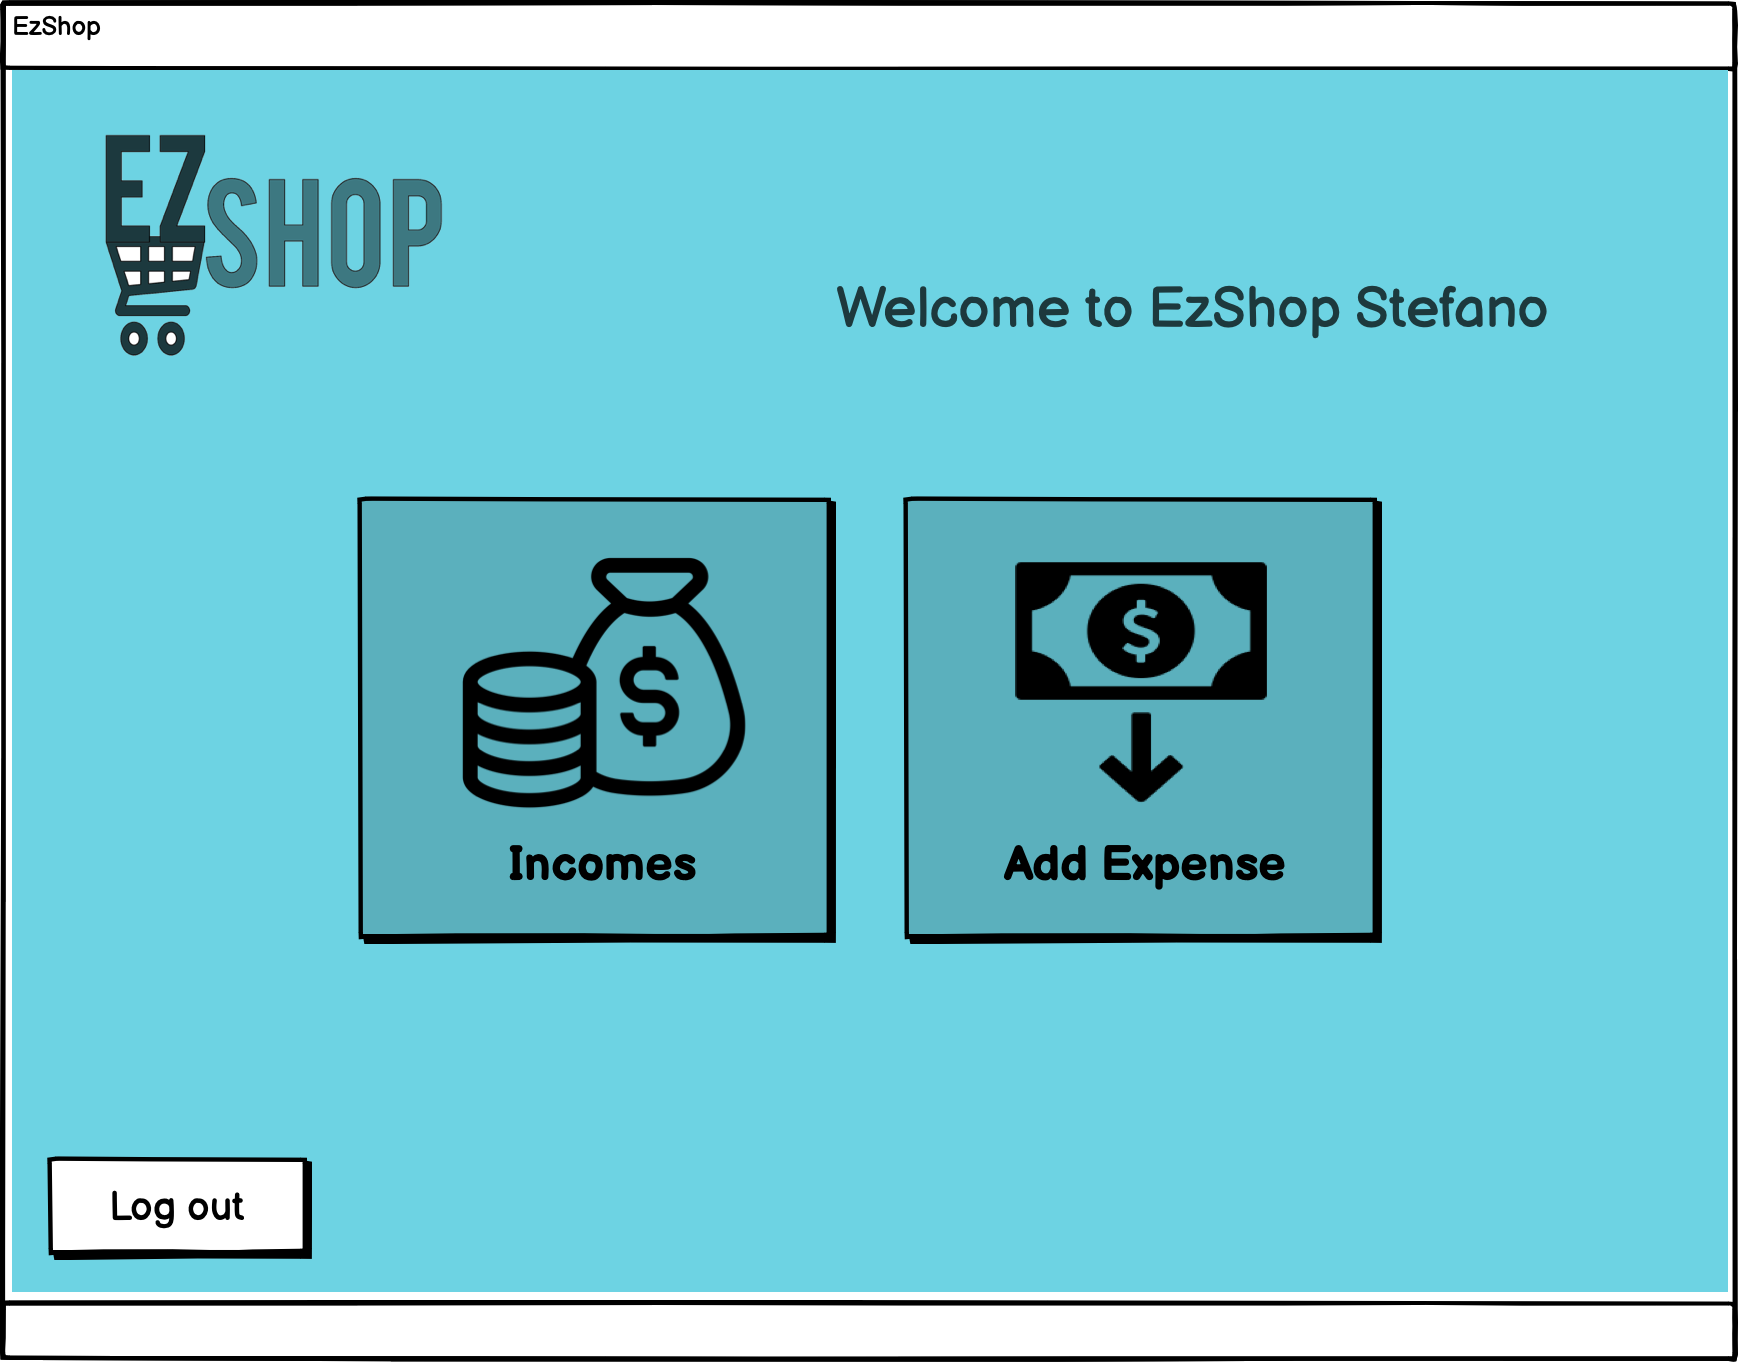
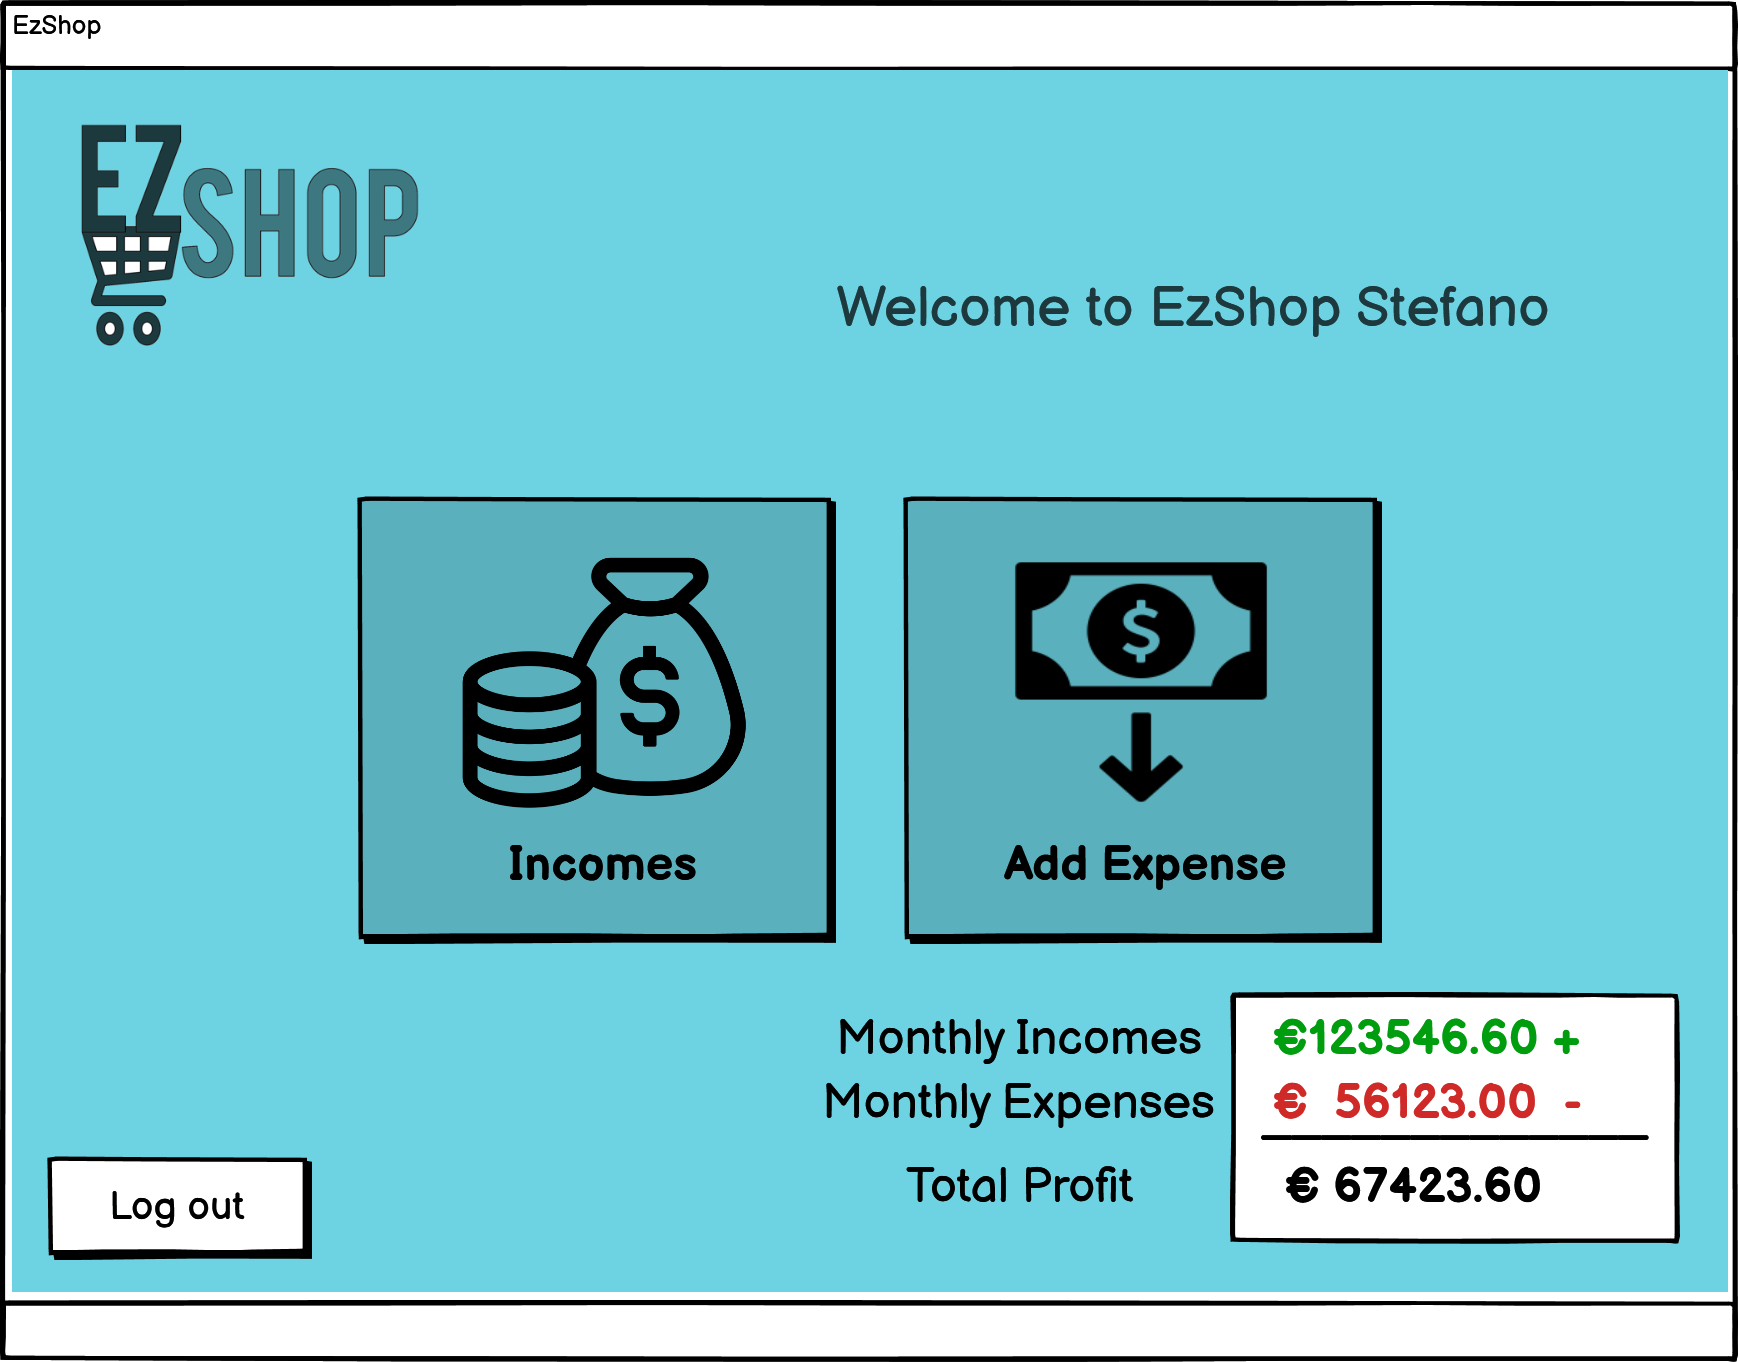
update: GUI for use cases 1-2-3

diff --git a/Deliverables/GUIPrototype.md b/Deliverables/GUIPrototype.md
@@ -13,19 +13,42 @@ Version: 01
 
 ## Use Case 1: Login
 ![](GUI_images/Login_1.png)
-Whether the user inputs wrong credential an error message is displayed
+Whether the user inputs wrong credential an error message is displayed.
 ![](GUI_images/Login_2.png)
+When the user correctly inserts the username and password, he/she is logged in and is able to see the homepage (cashier in this example).
 ![](GUI_images/Cashier_1.png)
 
-
 ## Use Case 2: Handle Customer Information
-
+The manager is able to select the functionalities that he/she wants to use. The Application displays to each manager only the functionalities to which the manager has access to.
+![](GUI_images/SelectRole.png)
+Clicking on the 'Customers' icon, a new window pops up. The user is able to manage Customers or add new Customers.
+![](GUI_images/CustManager_1.png)
+![](GUI_images/CustManager_2.png)
+Wheter the user inserts wrong information an error message is displayed.
+![](GUI_images/CustManager_3.png)
+![](GUI_images/CustManager_4.png)
+After the insertion of the new customer, the user is brought back to the homepage.
+![](GUI_images/CustManager_1.png)
+Clicking on 'Manage Customers' a list of all the active Customers is displayed. It is possible to delete customers or change their information.
+![](GUI_images/CustManager_5.png)
+![](GUI_images/CustManager_6.png)
+![](GUI_images/CustManager_7.png)
+![](GUI_images/CustManager_8.png)
+![](GUI_images/CustManager_5.png)
+![](GUI_images/CustManager_9.png)
+![](GUI_images/CustManager_10.png)
 
 ## Use Case 3: Manage Accounting
-
-
-## Use Case 4: Read Bar Code
-
+![](GUI_images/SelectRole.png)
+When clicking on the Accounting icon, the user is prompted to a screen where the user is able to check the incomes and to add a new expense. Furthermore, in the Accounting Manager HomePage is displayed the monthly balance of EzShop (calculated by subtracting the expenses from the profits).
+![](GUI_images/AcctManager_1.png)
+![](GUI_images/AcctManager_2.png)
+Clicking on the lens button located in each row, allows the user to check the full receipt of a certain day.
+![](GUI_images/AcctManager_3.png)
+![](GUI_images/AcctManager_1.png)
+In order to add a new expense, an 'Expense Type' has to be provided. The Expense Type allows to classify the different expenses in order to keep track of them.
+![](GUI_images/AcctManager_4.png)
+![](GUI_images/AcctManager_5.png)
 
 ## Use Case 5: Handle Sale Transaction
 
